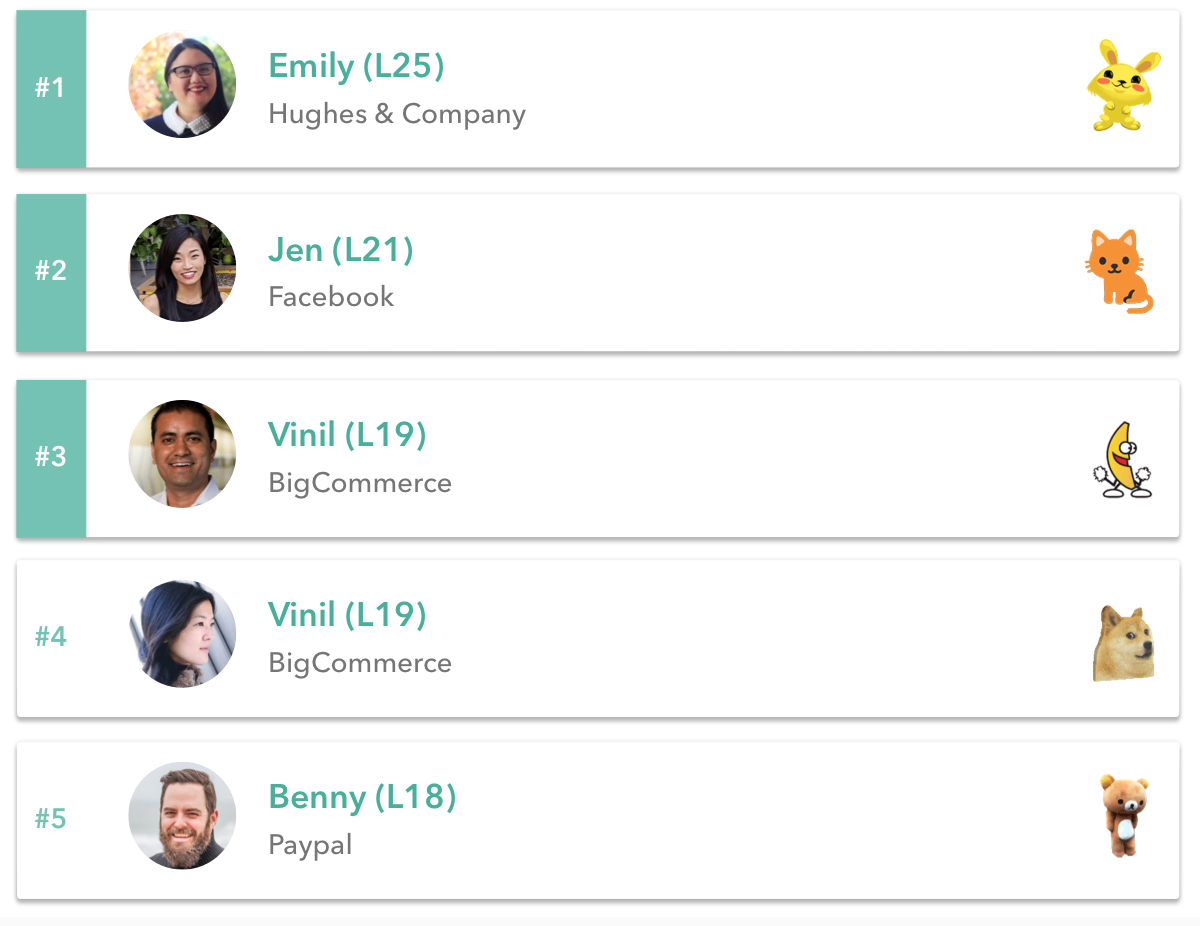
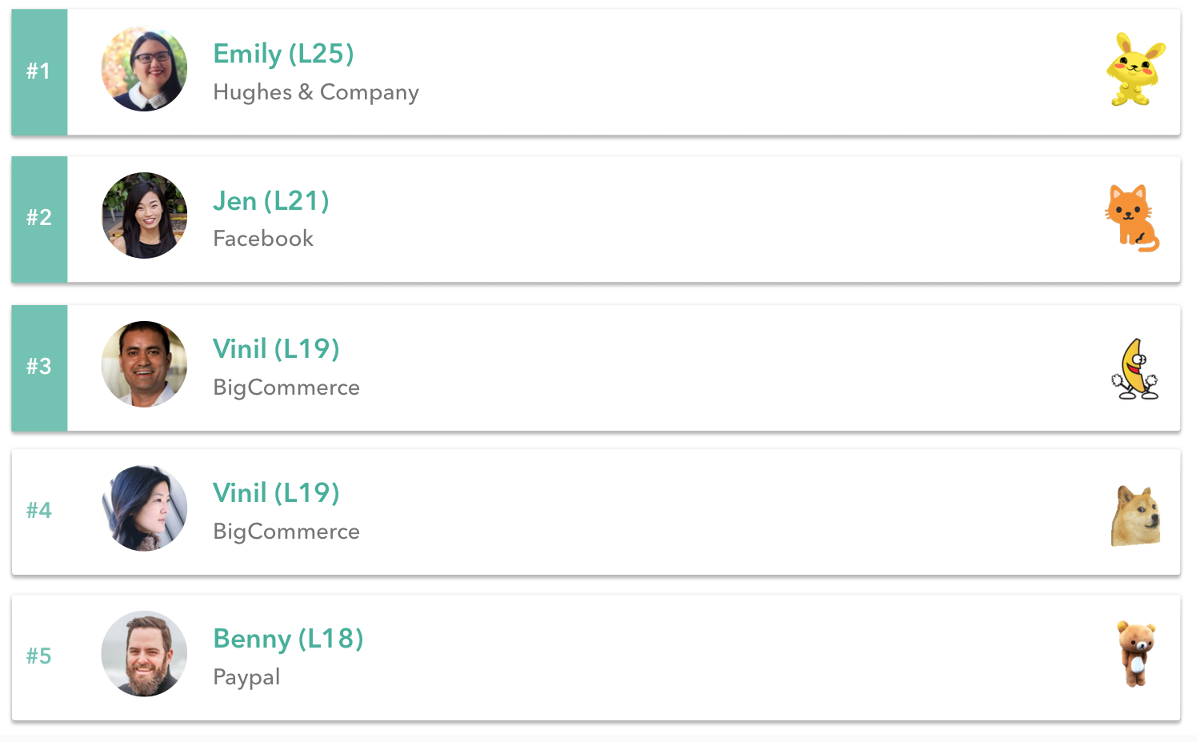
adjusting leaderboard size

diff --git a/public/views/leader.html b/public/views/leader.html
@@ -1,7 +1,7 @@
 <div class="container">
 	<div class="row">
 		<div class="col-lg-12">
-			<image src="../img/leaderboard2.png" width="100%">
+			<image src="../img/leaderboard1.png" width="100%">
 		</div>		
 	</div>
 </div>
